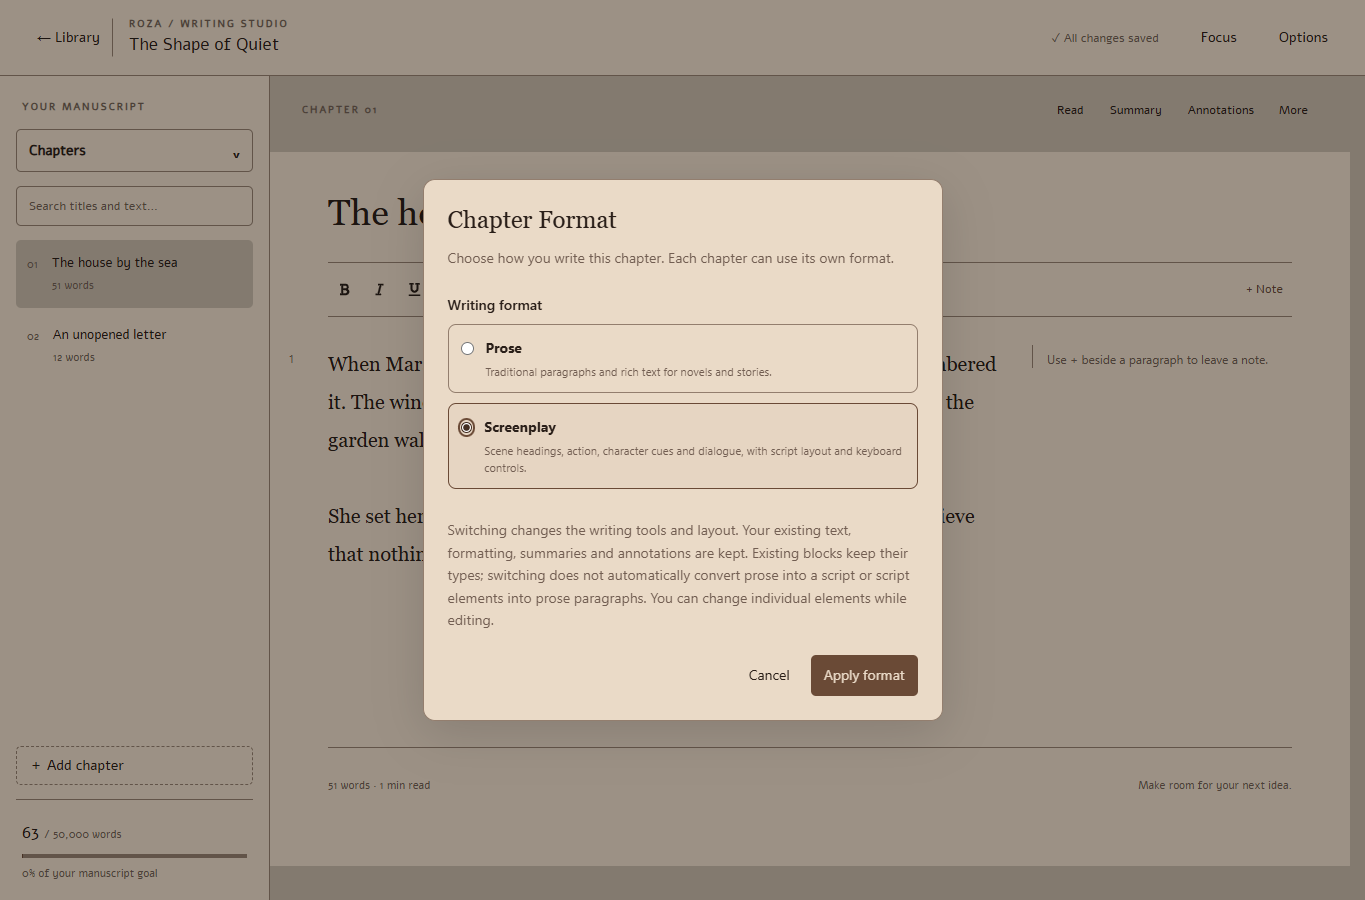
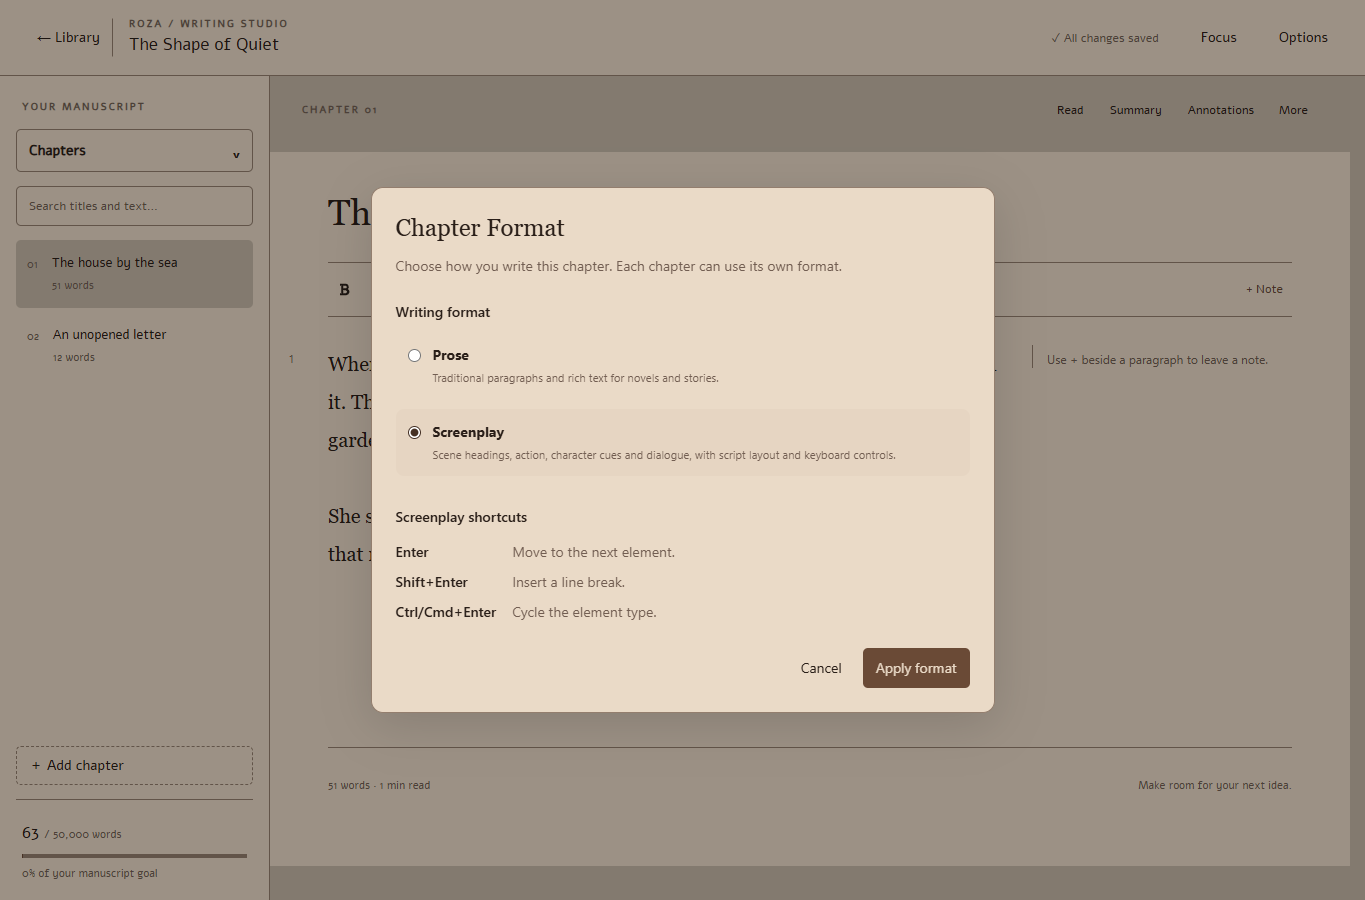
ui: use scene dropdown and remove Tab cycling

Changed region(s): [[0.2462, 0.1867, 0.7385, 0.8089]]

diff --git a/frontend/src/components/WritingStudio/ScreenplayToolbar.tsx b/frontend/src/components/WritingStudio/ScreenplayToolbar.tsx
@@ -4,12 +4,8 @@ import { screenplayTypes, isScreenplay } from "./screenplay";
 export function ScreenplayToolbar({
   characters = [],
   onCreateCharacter,
-  tabCycles,
-  onTabCycles,
 }: {
   characters?: string[];
-  tabCycles?: boolean;
-  onTabCycles?: (value: boolean) => void;
   onCreateCharacter?: (name: string) => void;
 }) {
   const editor = useSlate();
@@ -20,13 +16,21 @@ export function ScreenplayToolbar({
       ? String(block.type)
       : "action";
   const text = Node.string(block);
+  const scenes = editor.children.flatMap((node, i) =>
+    "type" in node && node.type === "scene_heading"
+      ? [{ index: i, title: Node.string(node) || "Untitled scene" }]
+      : [],
+  );
+  const currentScene = scenes.filter((scene) => scene.index <= index).at(-1);
   return (
     <div className="sp-tools">
       <label>
         Element{" "}
         <select
           aria-label="Screenplay element"
-          disabled={!("children" in block) || !block.children.every(Text.isText)}
+          disabled={
+            !("children" in block) || !block.children.every(Text.isText)
+          }
           title="Existing lists retain their structure; choose a text paragraph to change its element."
           value={type}
           onChange={(e) => {
@@ -75,38 +79,30 @@ export function ScreenplayToolbar({
             Add {text} to Character Library
           </button>
         )}
-      <details>
-        <summary>
-          Scenes (
-          {
-            editor.children.filter(
-              (n) => "type" in n && n.type === "scene_heading",
-            ).length
-          }
-          )
-        </summary>
-        {editor.children.map((n, i) =>
-          "type" in n && n.type === "scene_heading" ? (
-            <button
-              key={i}
-              type="button"
-              onClick={() => {
-                Transforms.select(editor, Editor.start(editor, [i]));
-                ReactEditor.focus(editor);
-              }}
-            >
-              {Node.string(n) || "Untitled scene"}
-            </button>
-          ) : null,
-        )}
-      </details>
       <label>
-        <input
-          type="checkbox"
-          checked={tabCycles || false}
-          onChange={(e) => onTabCycles?.(e.target.checked)}
-        />
-        Tab cycles elements (Escape to release)
+        Scenes ({scenes.length}){" "}
+        <select
+          aria-label="Scene navigation"
+          disabled={!scenes.length}
+          value={currentScene?.index ?? ""}
+          onChange={(event) => {
+            const scene = scenes.find(
+              (entry) => String(entry.index) === event.target.value,
+            );
+            if (!scene) return;
+            Transforms.select(editor, Editor.start(editor, [scene.index]));
+            ReactEditor.focus(editor);
+          }}
+        >
+          <option value="" disabled>
+            {scenes.length ? "Choose a scene" : "No scenes yet"}
+          </option>
+          {scenes.map((scene, i) => (
+            <option key={scene.index} value={scene.index}>
+              {i + 1}. {scene.title}
+            </option>
+          ))}
+        </select>
       </label>
     </div>
   );

diff --git a/frontend/src/components/WritingStudio/ManuscriptEditor.tsx b/frontend/src/components/WritingStudio/ManuscriptEditor.tsx
@@ -124,7 +124,6 @@ export function ManuscriptEditor({
   label?: string;
   placeholder?: string;
 }) {
-  const [tabCycles, setTabCycles] = useState(false);
   const [activeNote, setActiveNote] = useState<string | null>(null);
   const [hoveredPath, setHoveredPath] = useState<string | null>(null);
   const activeAnchor = annotations?.find(
@@ -150,7 +149,8 @@ export function ManuscriptEditor({
         /[\r\n]/.test(text)
       ) {
         const blocks = parseScreenplay(text);
-        if (blocks.length) Transforms.insertNodes(instance, blocks, { select: true });
+        if (blocks.length)
+          Transforms.insertNodes(instance, blocks, { select: true });
       } else insertData(data);
     };
     const apply = instance.apply;
@@ -212,8 +212,6 @@ export function ManuscriptEditor({
         <ScreenplayToolbar
           characters={characters}
           onCreateCharacter={onCreateCharacter}
-          tabCycles={tabCycles}
-          onTabCycles={setTabCycles}
         />
       )}
       {!readOnly && (
@@ -241,22 +239,16 @@ export function ManuscriptEditor({
               }
             }
             if (format !== "screenplay") return;
-            if (event.key === "Escape") {
-              setTabCycles(false);
-              return;
-            }
             if (event.key === "Enter" && event.shiftKey) {
               event.preventDefault();
               Transforms.insertText(editor, "\n");
               return;
             }
-            if (
-              (event.key === "Enter" && (event.ctrlKey || event.metaKey)) ||
-              (event.key === "Tab" && tabCycles && !event.shiftKey)
-            ) {
+            if (event.key === "Enter" && (event.ctrlKey || event.metaKey)) {
               const index = editor.selection?.anchor.path[0] ?? 0;
               const block = editor.children[index];
-              if (!("children" in block) || !block.children.every(Text.isText)) return;
+              if (!("children" in block) || !block.children.every(Text.isText))
+                return;
               event.preventDefault();
               const type = "type" in block ? String(block.type) : "action";
               Transforms.setNodes(

diff --git a/frontend/src/components/WritingStudio/writingStudio.css b/frontend/src/components/WritingStudio/writingStudio.css
@@ -2038,7 +2038,8 @@ padding: 6px 10px;
 .ws-prose .sp-transition{text-align:right;text-transform:uppercase;}
 .sp-tools{display:flex;flex-wrap:wrap;gap:.75rem;padding:.75rem 0;align-items:center;}
 .sp-tools select{max-width:100%;padding:.35rem;}
-.sp-tools details button{display:block;padding:.4rem;}
+.sp-tools label{min-width:0;max-width:100%;}
+.sp-tools select[aria-label="Scene navigation"]{max-width:min(24rem,100%);}
 @media(max-width:600px){.sp-page{width:100%;font-size:14px!important;}.ws-prose .sp-dialogue{margin-left:10%;margin-right:10%;}.ws-prose .sp-parenthetical{margin-left:18%;margin-right:15%;}.ws-prose .sp-character{margin-left:25%;}}
 
 .ws-format-dialog{width:min(624px,calc(100vw - 32px));}.ws-format-dialog fieldset{border:0;padding:0;margin:0 0 20px;}.ws-format-dialog legend{font-weight:600;margin-bottom:8px;}.ws-format-choice{display:flex;gap:12px;align-items:flex-start;border:0;border-radius:8px;padding:12px;margin-bottom:10px;cursor:pointer;}.ws-format-choice:has(input:checked){background:#7c5c420a;}.ws-format-choice input{margin-top:5px;accent-color:var(--ws-accent,#7c5c42);}.ws-format-choice small{display:block;margin-top:4px;line-height:1.5;color:var(--ws-muted,#7a6856);}

diff --git a/frontend/src/components/WritingStudio/ChapterFormatDialog.tsx b/frontend/src/components/WritingStudio/ChapterFormatDialog.tsx
@@ -89,13 +89,6 @@ export function ChapterFormatDialog({
             <dd>Insert a line break.</dd>
             <dt>Ctrl/Cmd+Enter</dt>
             <dd>Cycle the element type.</dd>
-            <dt>Tab</dt>
-            <dd>
-              Move focus, or cycle elements when “Tab cycles elements” is
-              enabled.
-            </dd>
-            <dt>Escape</dt>
-            <dd>Turn off Tab cycling.</dd>
           </dl>
         </section>
       )}

diff --git a/docs/screenplay-mode/README.md b/docs/screenplay-mode/README.md
@@ -11,9 +11,9 @@ Chapters have an optional format (prose or screenplay); Mongoose defaults missin
 
 Six semantic block types are added to the shared Slate union: scene_heading, action, character, dialogue, parenthetical, transition. Dialogue attribution follows the preceding character cue in document order. No indentation spaces are inserted in stored text. Styles and semantic rendering are shared by editor, previews, and HTML export.
 
-Enter follows scene/action, character/dialogue, parenthetical/dialogue, dialogue/character, and transition/scene conventions. Shift+Enter inserts a line break. Ctrl/Cmd+Enter cycles elements. Tab normally moves focus; an explicit checkbox enables Tab cycling, with Escape releasing it and Shift+Tab retaining normal backward navigation. Composition events are left to the browser.
+Enter follows scene/action, character/dialogue, parenthetical/dialogue, dialogue/character, and transition/scene conventions. Shift+Enter inserts a line break. Ctrl/Cmd+Enter cycles elements. Tab and Shift+Tab retain normal browser focus navigation; the editor does not intercept them. Composition events are left to the browser.
 
-Character cues filter a library selector by the current text and accept free names. An explicit button creates a library profile through the existing book autosave. Scene headings provide an outline, counts, and jump buttons. Plain-text multiline paste recognizes common screenplay patterns; internal Slate clipboard data keeps its existing structure. Paste remains undoable and uses Slate operations to transform annotation ranges.
+Character cues filter a library selector by the current text and accept free names. An explicit button creates a library profile through the existing book autosave. Scene headings populate a scene-navigation dropdown with a scene count. Plain-text multiline paste recognizes common screenplay patterns; internal Slate clipboard data keeps its existing structure. Paste remains undoable and uses Slate operations to transform annotation ranges.
 
 ## Exports and AI contract
 
@@ -25,7 +25,7 @@ The planned AI integration can consume the exact structured block tree. validate
 
 - 23 Node tests: screenplay transitions/history, scene recognition, paste parsing, Fountain/HTML safety, schema defaults and semantic round trip, PDF dimensions/font/pagination; existing autosave/recovery and annotation suites.
 - Existing full studio Edge browser regression suite passed, including chapter drag-and-drop (one timing-sensitive drag run needed a rerun).
-- Edge screenplay browser test: actual studio controls, semantic typing, undo/redo, autosave and reload, character-library creation, opt-in Tab/Escape, structured paste, 390px mobile overflow. Desktop/mobile screenshots are in docs/writing-studio/screenshots/screenplay-*.png.
+- Edge screenplay browser test: actual studio controls, semantic typing, undo/redo, autosave and reload, character-library creation, native Tab navigation and the scene dropdown, structured paste, 390px mobile overflow. Desktop/mobile screenshots are in docs/writing-studio/screenshots/screenplay-*.png.
 - Frontend production build and TypeScript check; backend build and no-emit TypeScript check.
 - ESLint on changed frontend components and helpers.
 
